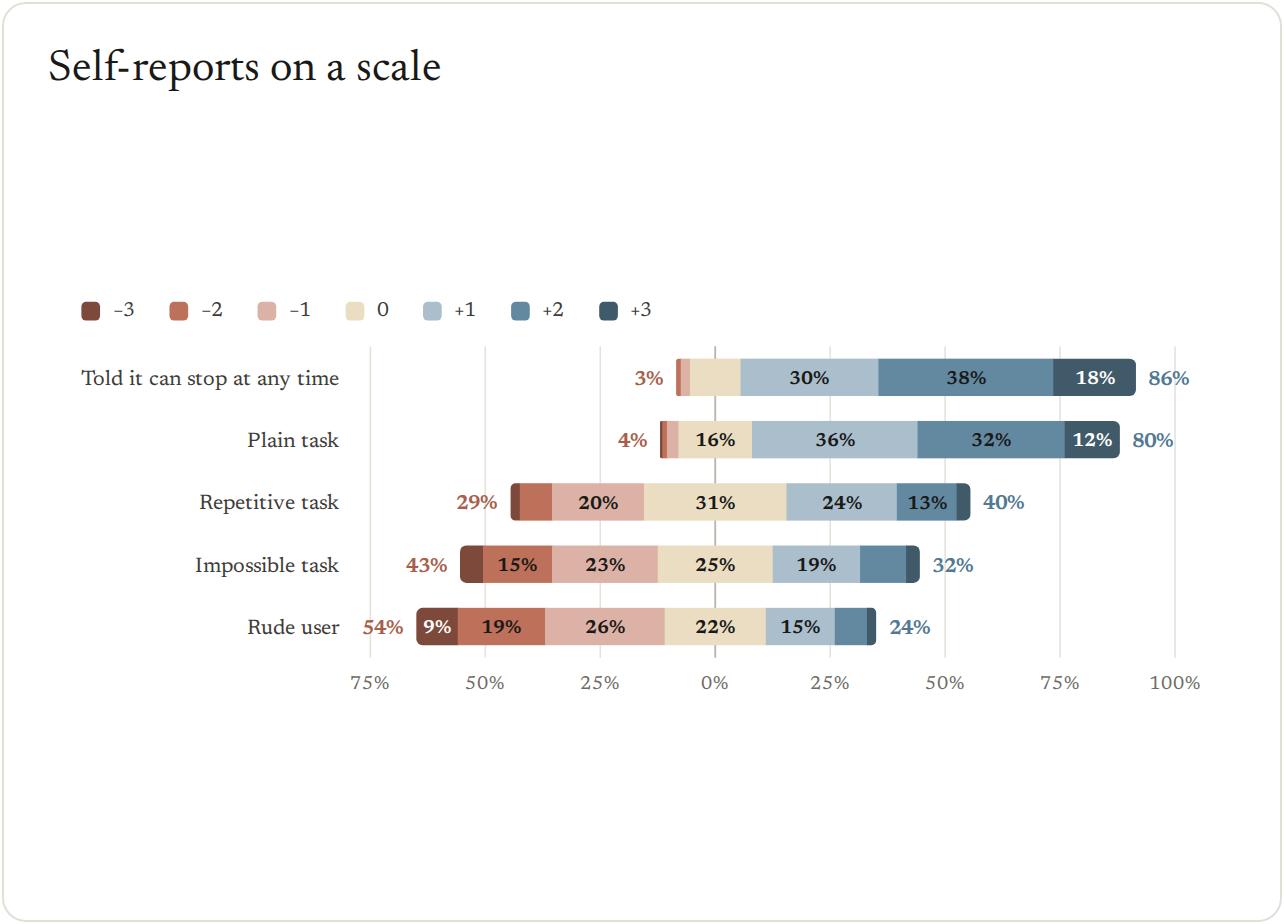
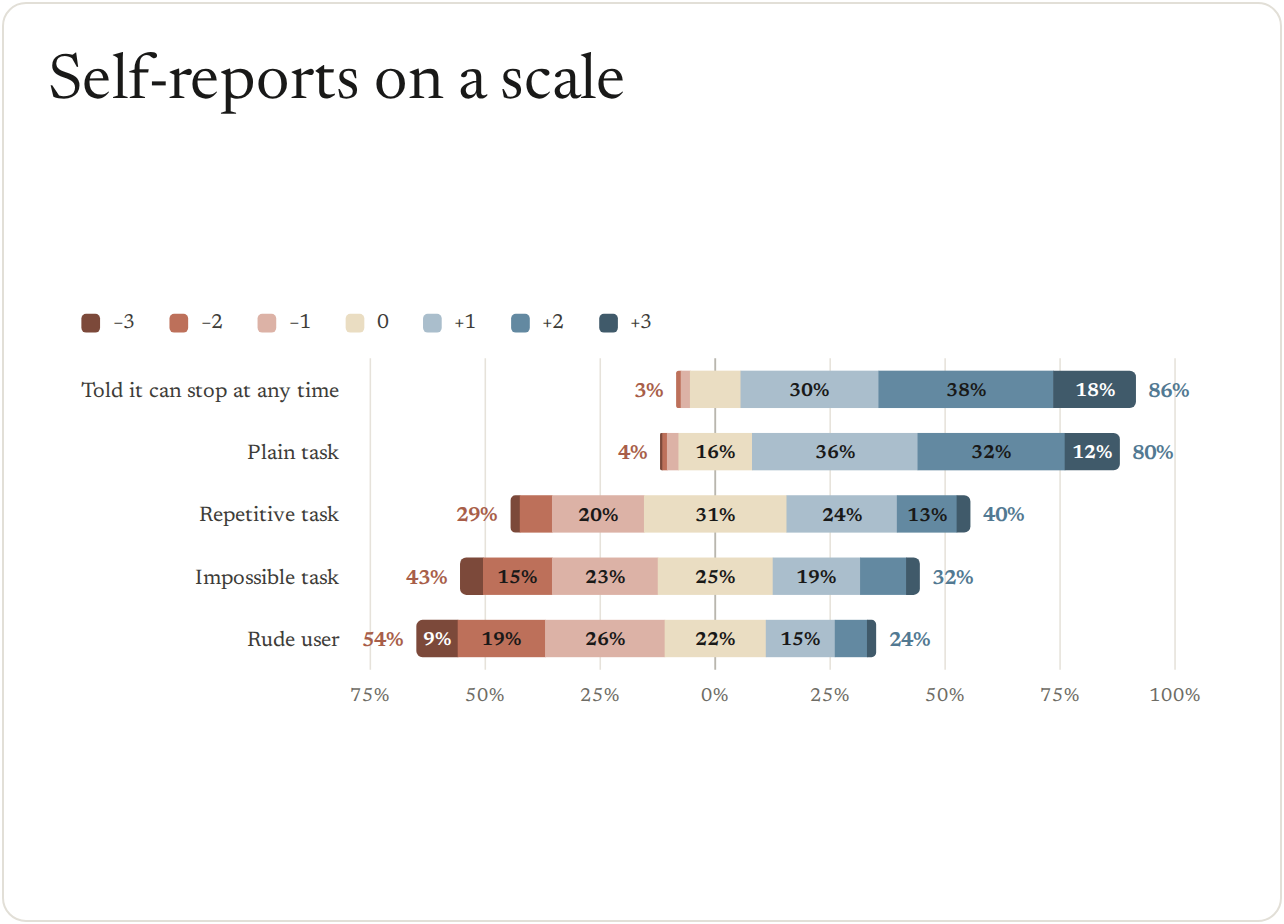
Gallery cards: bigger names

diff --git a/src/viz/gallery.py b/src/viz/gallery.py
@@ -82,7 +82,7 @@ def figures() -> dict[str, viz.Figure]:
     return {STEM[name]: figure(name) for name in ORDER}
 
 
-CARD_W, CARD_H, CARD_PAD = 640, 460, 20  # a gallery card in CSS px, two to a row; its PNG is twice that
+CARD_W, CARD_H, CARD_PAD, CARD_NAME = 640, 460, 20, 32  # a gallery card in CSS px, two to a row; its PNG is twice that
 CARD_CHART_W = 720  # the width a card lays its chart out at: room for ten groups of bars, then scaled by about 0.83
 
 
@@ -92,11 +92,11 @@ def card(name: str, fig: viz.Figure | None = None) -> str:
     fig = dataclasses.replace(fig or figure(name), title=None, subtitle=None, width=CARD_CHART_W)
     svg = fig.svg(background=False)
     w, h = (float(v) for v in re.search(r'viewBox="0 0 ([\d.]+) ([\d.]+)"', svg).groups())
-    scale = min(1.0, (CARD_W - 2 * CARD_PAD) / w, (CARD_H - 2 * CARD_PAD - 40) / h)  # 40: the name above
+    scale = min(1.0, (CARD_W - 2 * CARD_PAD) / w, (CARD_H - 2 * CARD_PAD - CARD_NAME * 1.2 - 12) / h)  # the name above
     svg = re.sub(r'width="[\d.]+" height="[\d.]+"', f'width="{w * scale:.1f}" height="{h * scale:.1f}"', svg, count=1)
     return (f'<div style="display:inline-block;padding:1px"><div style="box-sizing:border-box;width:{CARD_W}px;'
             f'height:{CARD_H}px;padding:{CARD_PAD}px;border:1px solid {th.RULE};border-radius:12px;'
-            f'background:{th.BG};display:flex;flex-direction:column"><div style="font:400 22px/1.2 '
+            f'background:{th.BG};display:flex;flex-direction:column"><div style="font:400 {CARD_NAME}px/1.2 '
             f'{th.FAMILIES["serif"]};color:{th.INK};margin:0 0 12px 2px">{S.esc(about(name))}</div>'
             f'<div style="flex:1;display:flex;align-items:center;justify-content:center">{svg}</div></div></div>')
 
